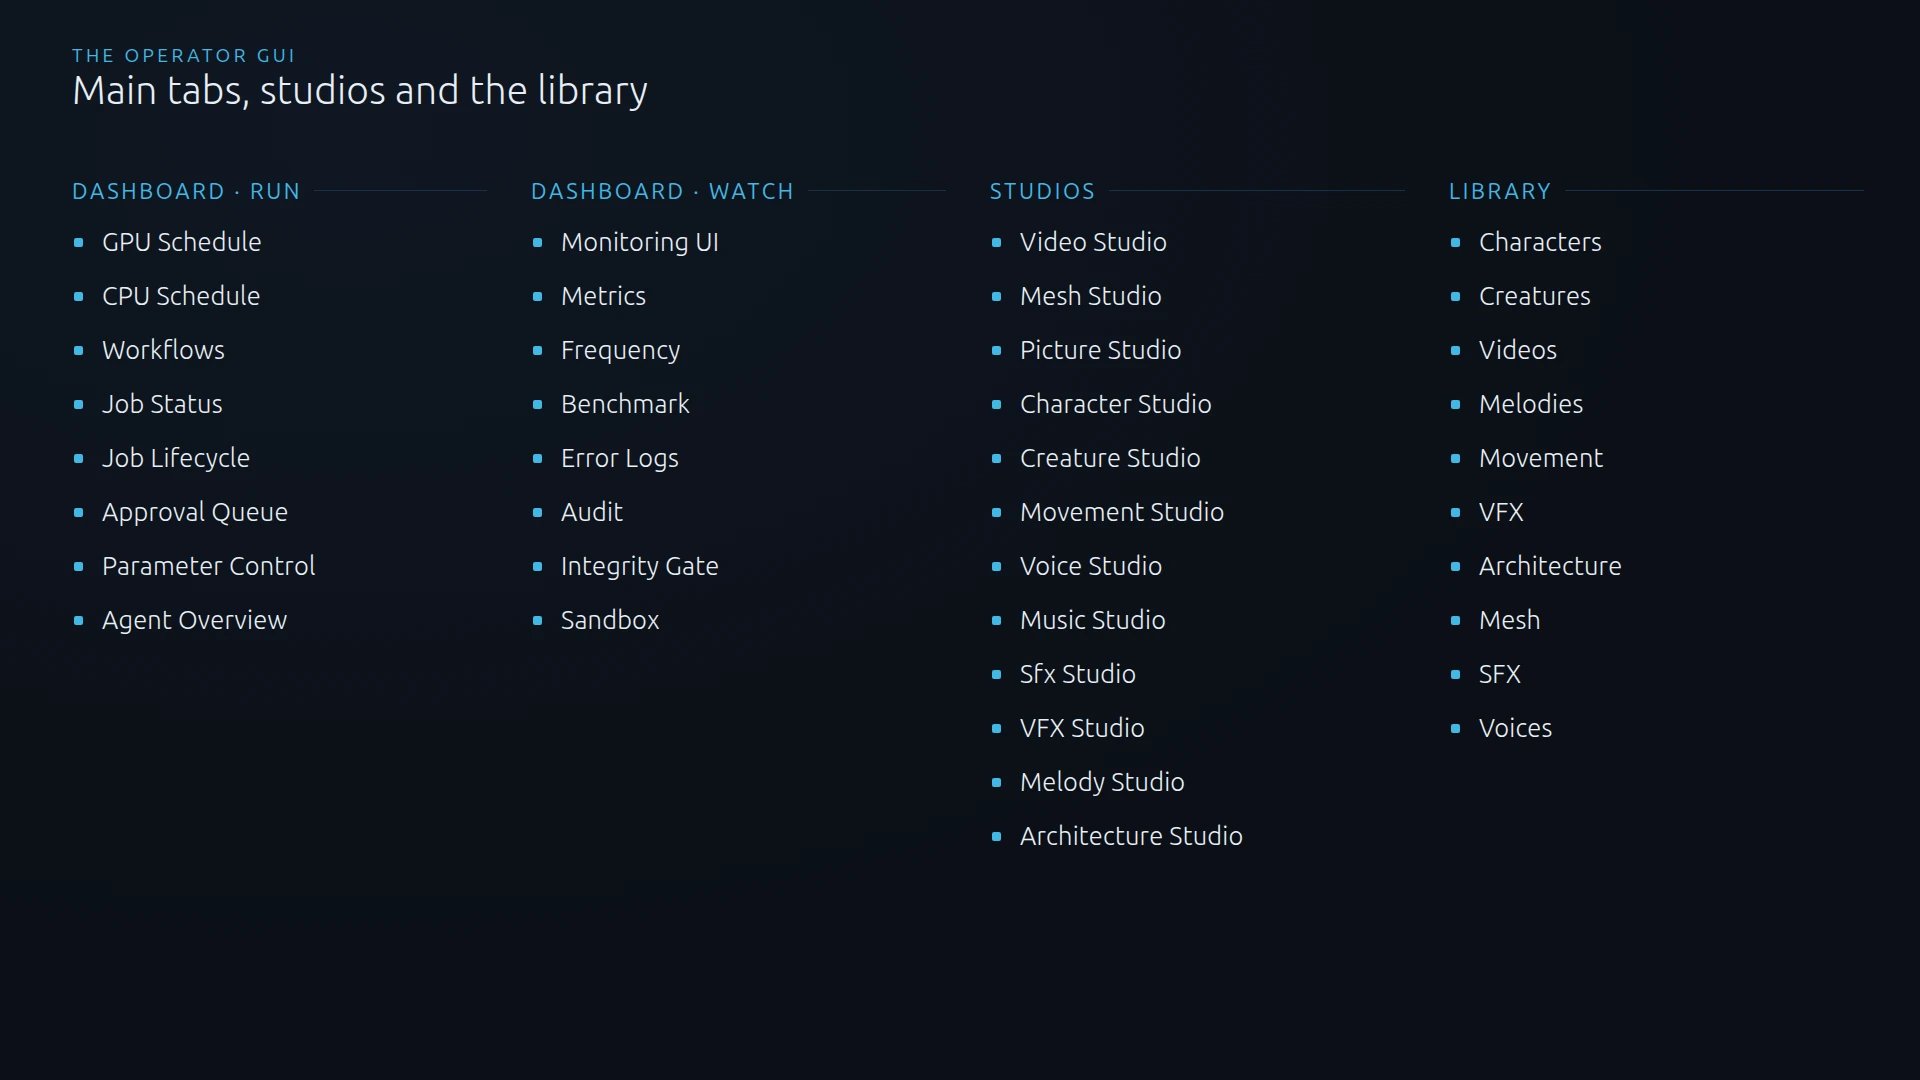
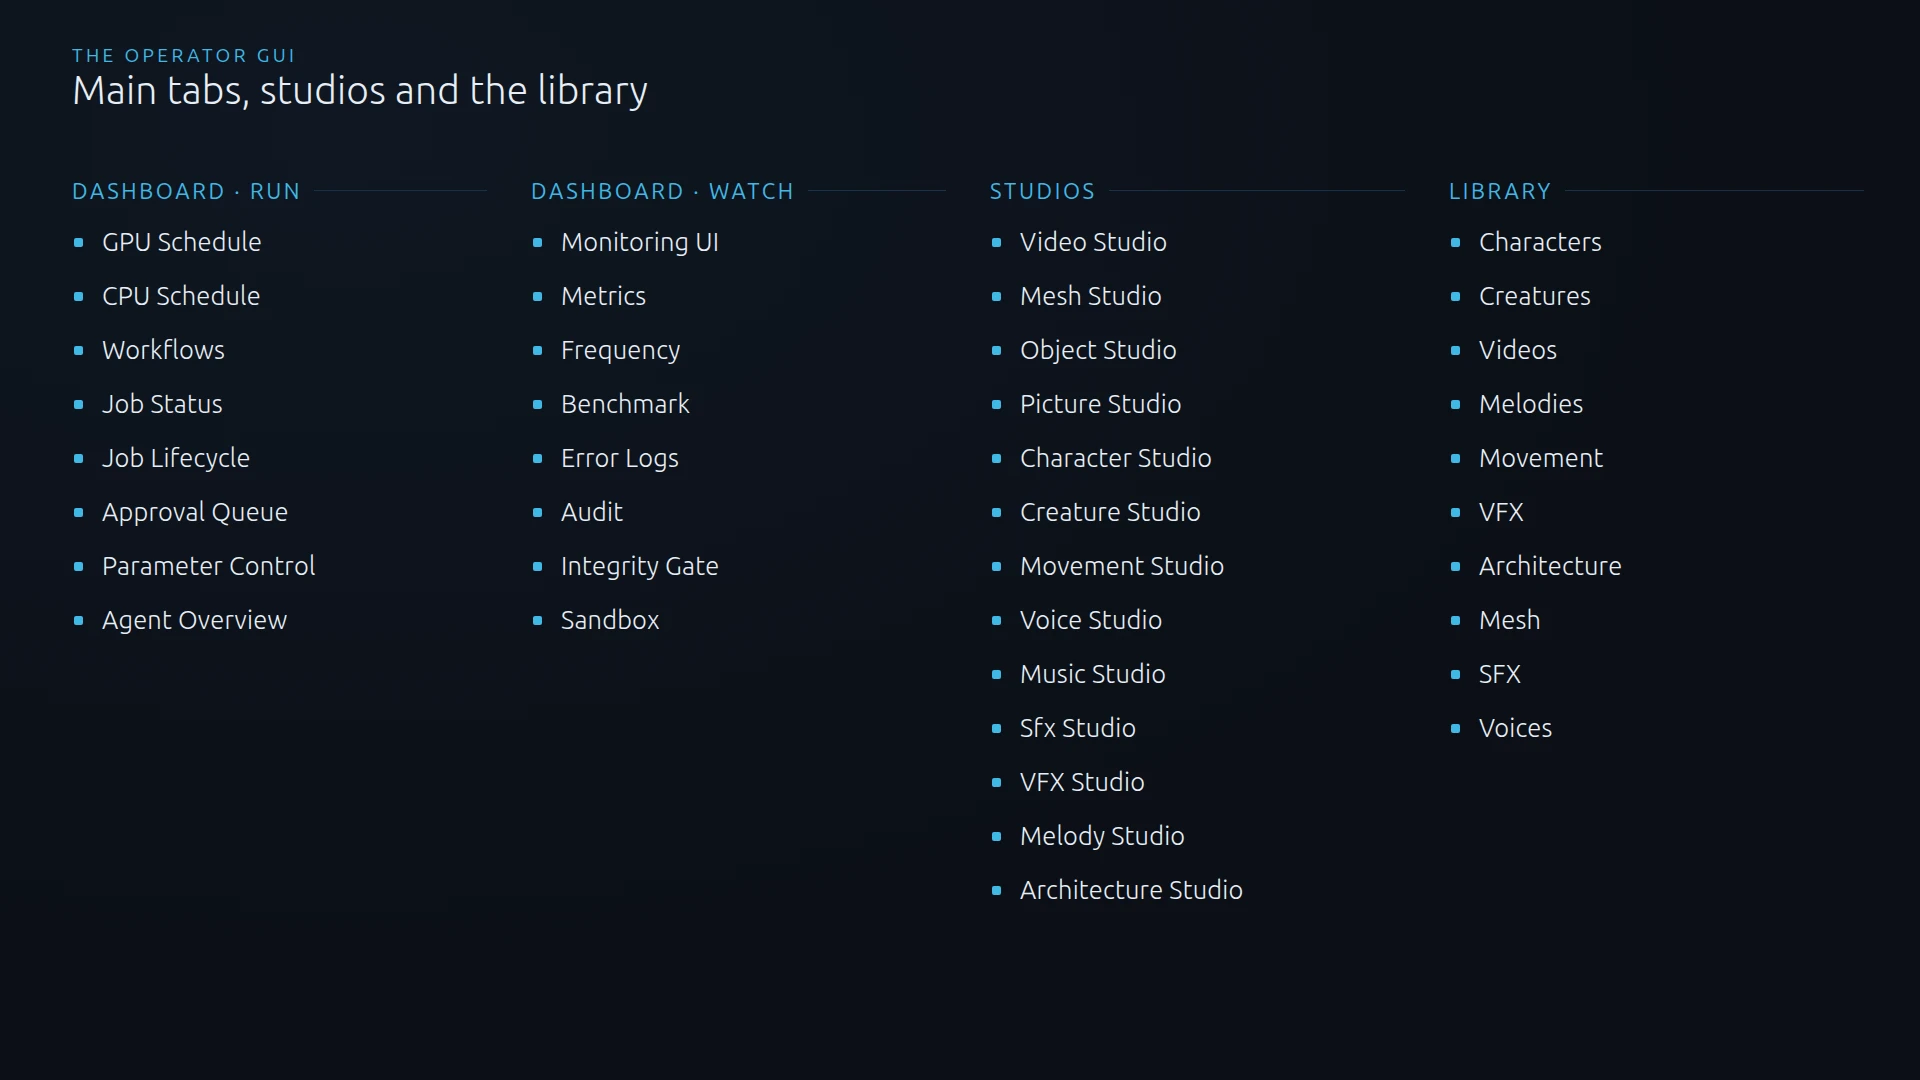
Demo and portfolio: Object Studio joins the studio lists
The tabs-studios-library demo slide is regenerated with Object Studio in
the STUDIOS column (thirteen studios), and docs/demo.md counts follow.
The portfolio deck gains an Object Studio slide (the immersive room:
generator bench, hologram, display walls; spoken name -> agent-written
build plan -> headless Blender GLB) and now says fourteen studios.

diff --git a/packages/zero-public/src/zyg_zero/zpub_portfolio_deck.py b/packages/zero-public/src/zyg_zero/zpub_portfolio_deck.py
@@ -53,7 +53,7 @@ HERO = {
     'sub': 'Portfolio 2026 · the studios, the workflows, the numbers',
     # The "badge row": facts, not decoration. Each one is in the written portfolio.
     'facts': [
-        {'k': '13', 'v': 'studios, one per specialist'},
+        {'k': '14', 'v': 'studios, one per specialist'},
         {'k': 'Mar 2026', 'v': 'workstation built'},
         {'k': '€ 0.015', 'v': 'per documentary episode'},
         {'k': '0', 'v': 'human steps in the documentary workflow'},
@@ -75,7 +75,7 @@ CHAPTERS = [
                 'what': 'Normally a team of professionals covers these areas. Here each area has its own studio.',
                 'points': [
                     'Every option, and how it is applied to the subject, is tested, trained and verified.',
-                    'The home screen lists the thirteen studios the rest of this deck walks through.',
+                    'The home screen lists the fourteen studios the rest of this deck walks through.',
                 ],
             },
             {
@@ -91,7 +91,7 @@ CHAPTERS = [
     },
     {
         'id': 'studios',
-        'title': 'Thirteen studios',
+        'title': 'Fourteen studios',
         'lead': 'Each studio replicates one specialist’s craft, outfitted with its own options, quality gates and benches.',
         'slides': [
             {
@@ -188,6 +188,15 @@ CHAPTERS = [
                 'what': 'Buildings, floor plans and landscapes from a dock of about 190 tools and written design rules.',
                 'points': [
                     'Quality gates check the drawing against the rules before a scene is handed to Blender.',
+                ],
+            },
+            {
+                'file': '105_object_studio_immersive.png',
+                'title': 'Object Studio',
+                'what': 'A spoken name becomes a 3D object: an agent writes the build plan, headless Blender builds the GLB.',
+                'points': [
+                    'Shown here as its immersive room: the generator bench, the hologram and the display walls.',
+                    'Finished objects land in the wall cabinets and are recalled, shown and modified by voice.',
                 ],
             },
             {

diff --git a/docs/demo.md b/docs/demo.md
@@ -93,9 +93,9 @@ The Backend
 
 ### Main tabs, studios and the library
 
-![The dashboard tabs, the twelve studios and the ten library categories](media/slide-tabs-studios-library.webp)
+![The dashboard tabs, the thirteen studios and the ten library categories](media/slide-tabs-studios-library.webp)
 
-The sixteen dashboard tabs, the twelve studios and the ten kinds of thing the library holds.
+The sixteen dashboard tabs, the thirteen studios and the ten kinds of thing the library holds.
 
 ### Workflows
 
